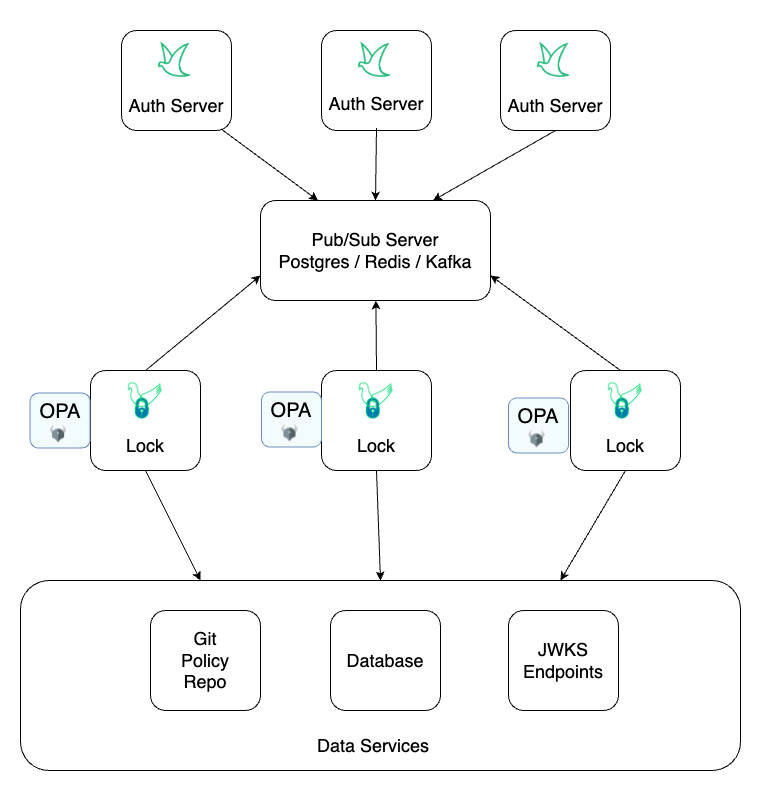
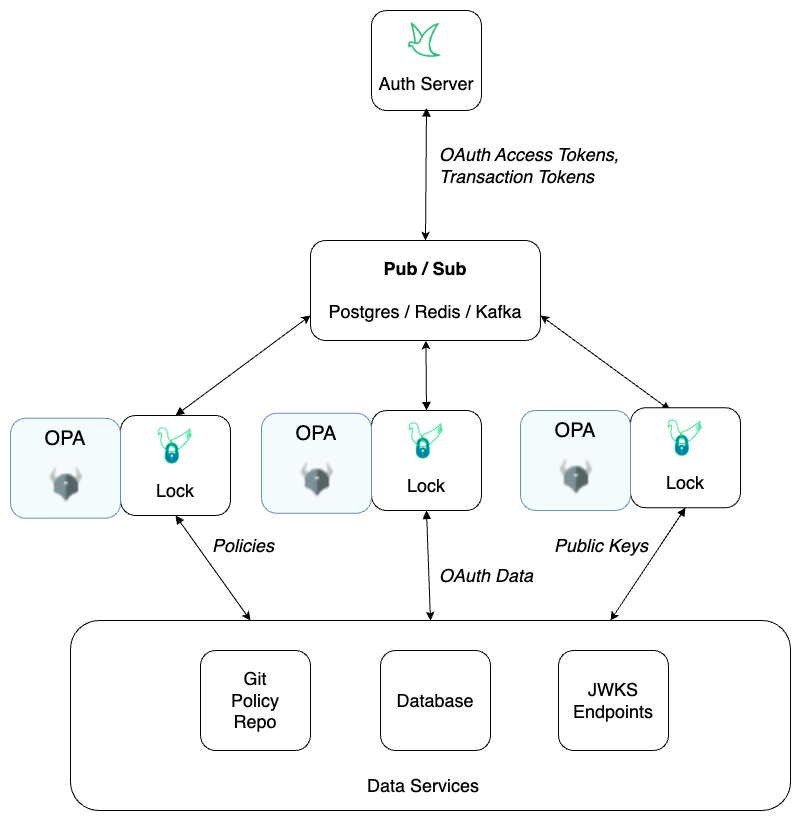
Updated data topology diagram and README.

diff --git a/docs/admin/lock/README.md b/docs/admin/lock/README.md
@@ -41,28 +41,29 @@ decisions given the same inputs.
 
 Another critical optimization was to move the PIP to the edge, so the PDP
 has all the data it needs to make a decision. This aligns with a principle that
-each microservice is well-encapsulated--all logic and data is encapsulated into
-a single deployment unit.
+each microservice has all logic and data encapsulated into a single
+deployment unit.
 
 ![Jans Lock Toplogy](../../assets/lock-design-diagram-02.png)
 
 To empower this cloud native authorization pattern, Janssen leverages a
 component governed under the Linux Foundation: [OPA](https://openpolicyagent.org),
-a project at the [CNCF](https://cncf.io). OPA is a popular PDP, whose popularity
+a project at the [CNCF](https://cncf.io). OPA is a popular PDP, whose adoption
 grew significantly in response to the need for granular policies for Kubernetes
 access control. The Jans Lock solution pushes token data from Auth Server to OPA,
 enabling authorization based on real time information from the OAuth
 infrastructure. In order to use Lock, admins will have to do a few things:
 
-  * [Enable Lock in Auth Server](./lock_token_stream.md)
-  * [Configure a Lock client instance](./lock_client.md)
+  * [Enable Lock in Auth Server](./lock_as_config.md)
+  * [Configure a Lock client instance](./lock_client_config.md)
   * [Author Rego policies based on OAuth token data](./lock_opa_policies.md)
 
-Lock is a helper demon that calls the OPA API to update it with the latest
-data, policies, and public keys. Lock consumes updates from an Auth Server token
-stream, which contains the reference ids of any new or revoked tokens. Lock
-retrieves the data (i.e. token value) for a given token reference id from the
-database service.
+The Lock helper demon also calls the OPA API to update it with the latest
+policies (from Github), and public keys (from any JWKS endpoint). The
+Auth Server token stream contains only the reference ids of any new or revoked
+tokens. Lock retrieves the data (i.e. token value) for a given token reference
+id from the database service. This design minimizes the traffic on the message
+queue and leverages cloud data distribution topologies.
 
 ![Jans Lock Toplogy](../../assets/lock-design-diagram-01.png)
 
@@ -96,3 +97,5 @@ and API gateway (which is better for North-South web ingress). TLS is required
 to protect the bearer token. MTLS is even better.
 
 ![Jans Lock sample toplogy](../../assets/lock-east-west-service-mesh-diagram.png)
+
+[Next](./lock_as_config.md)
